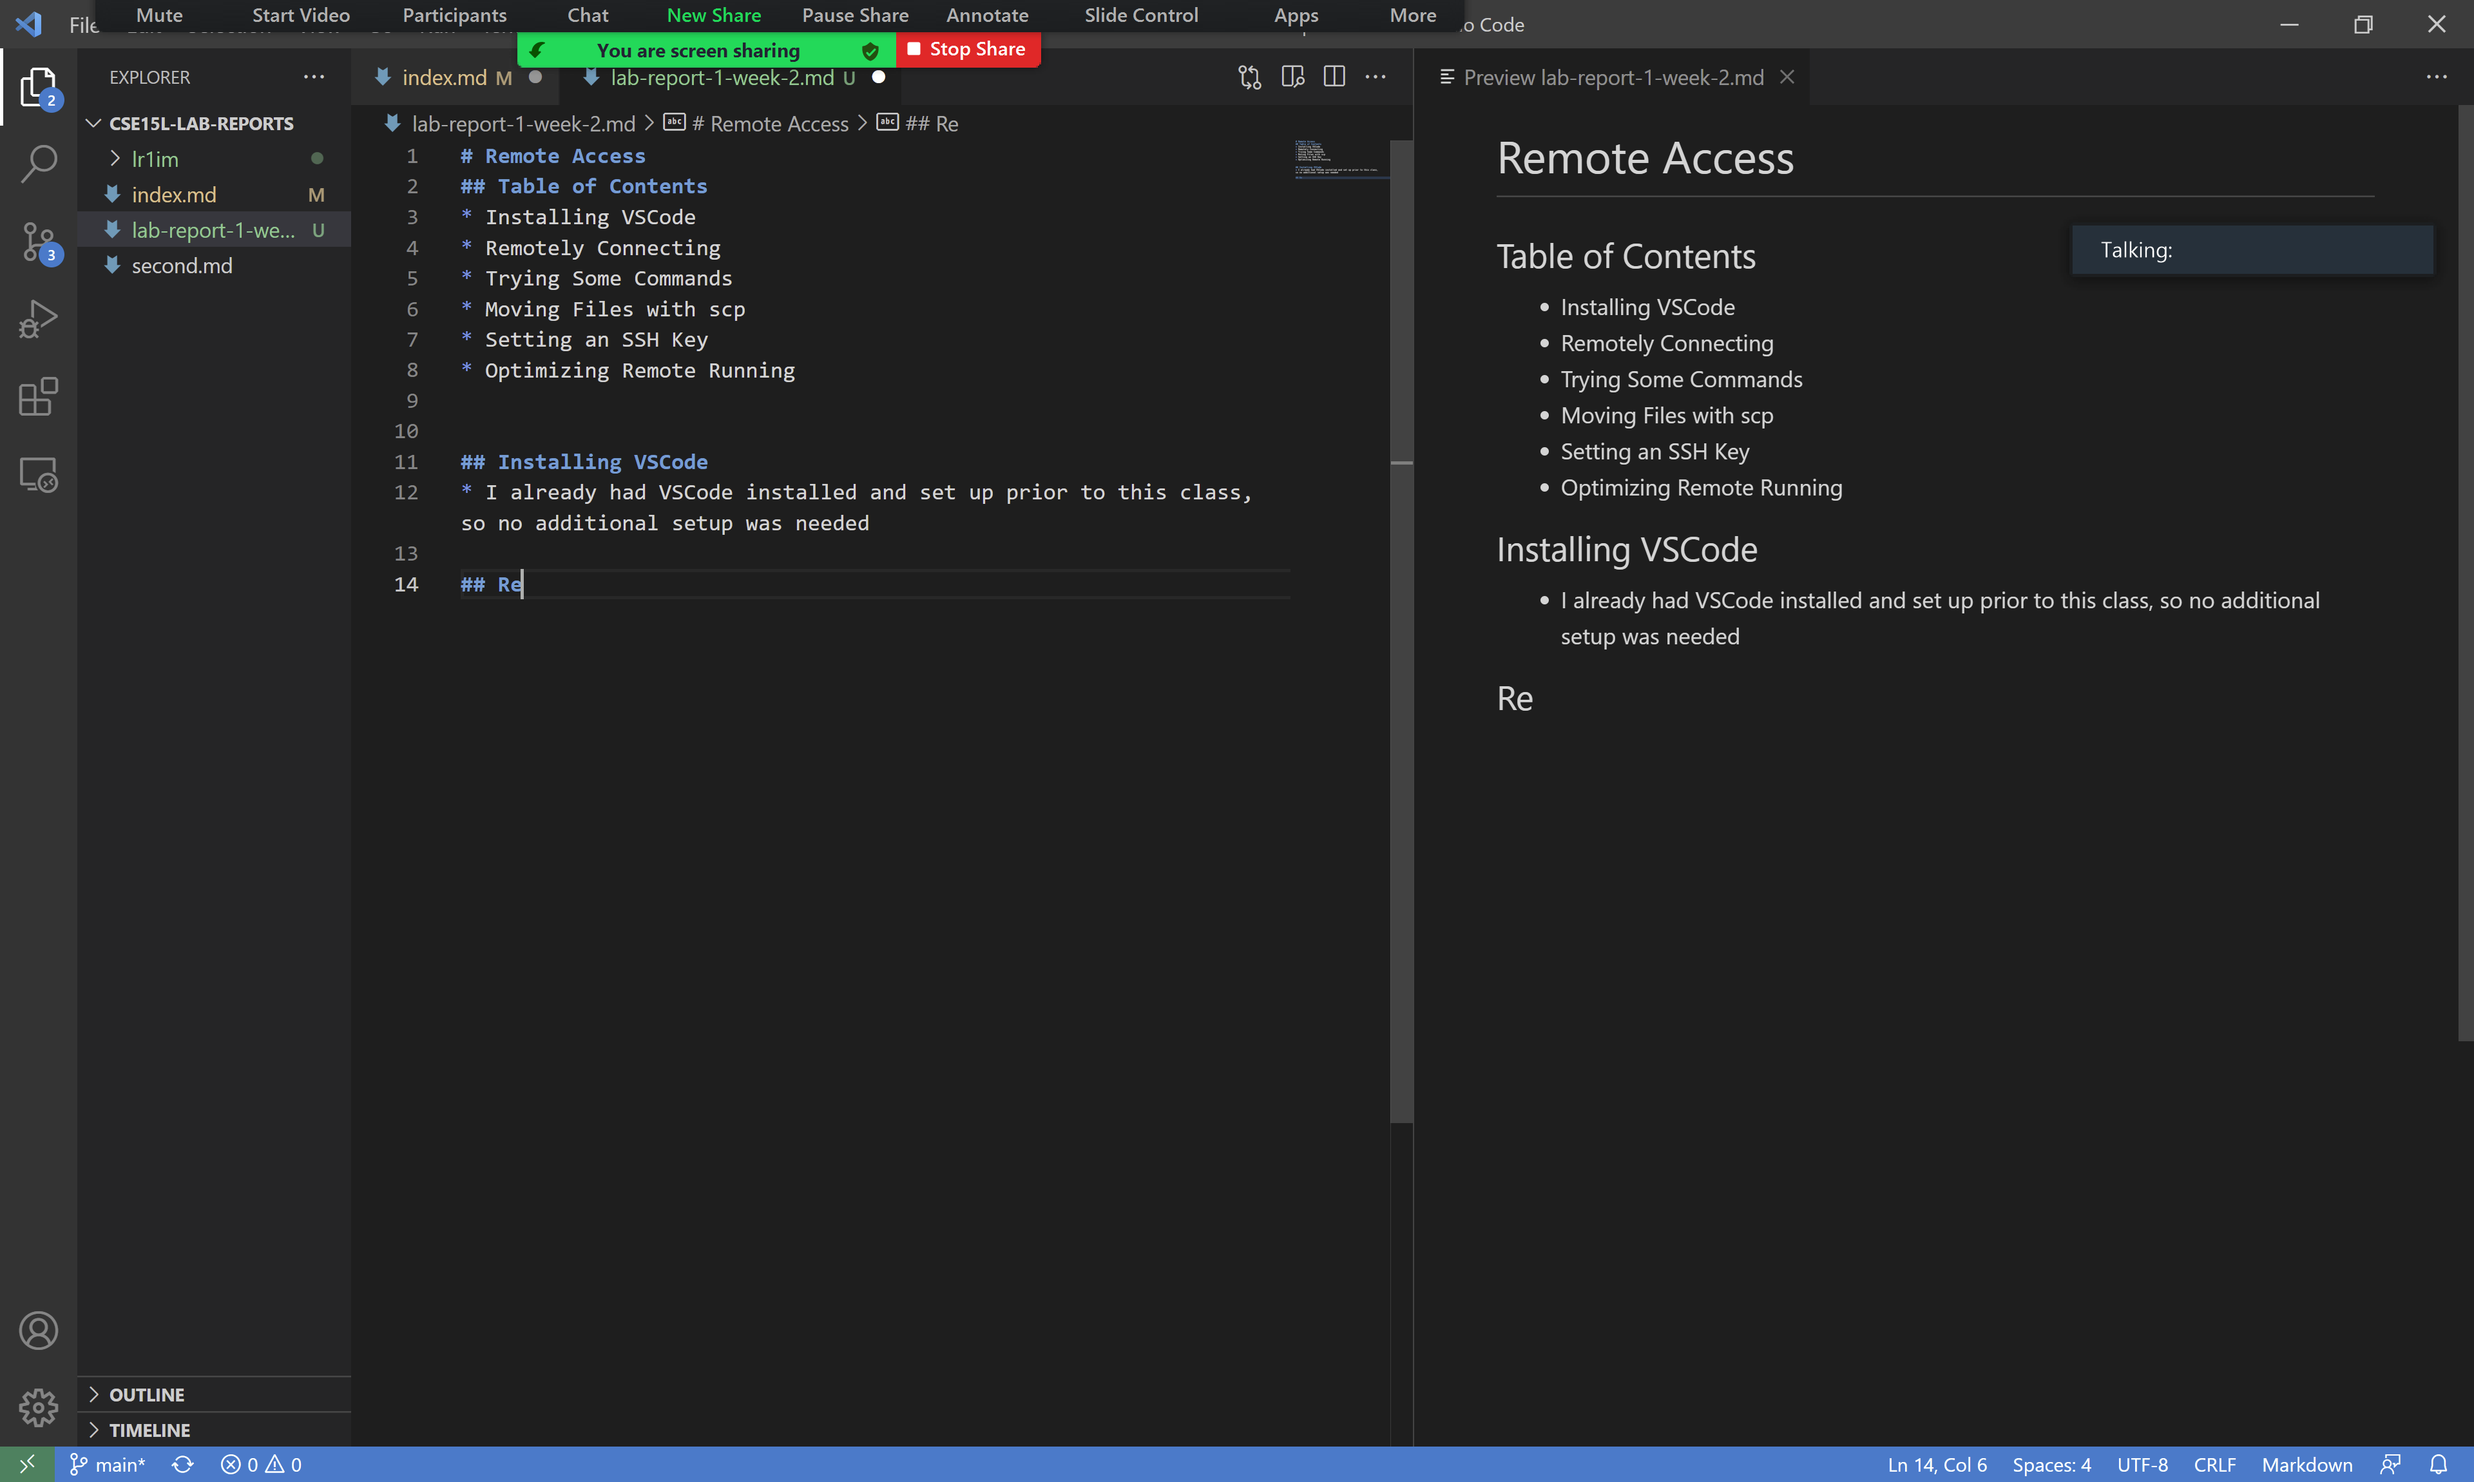
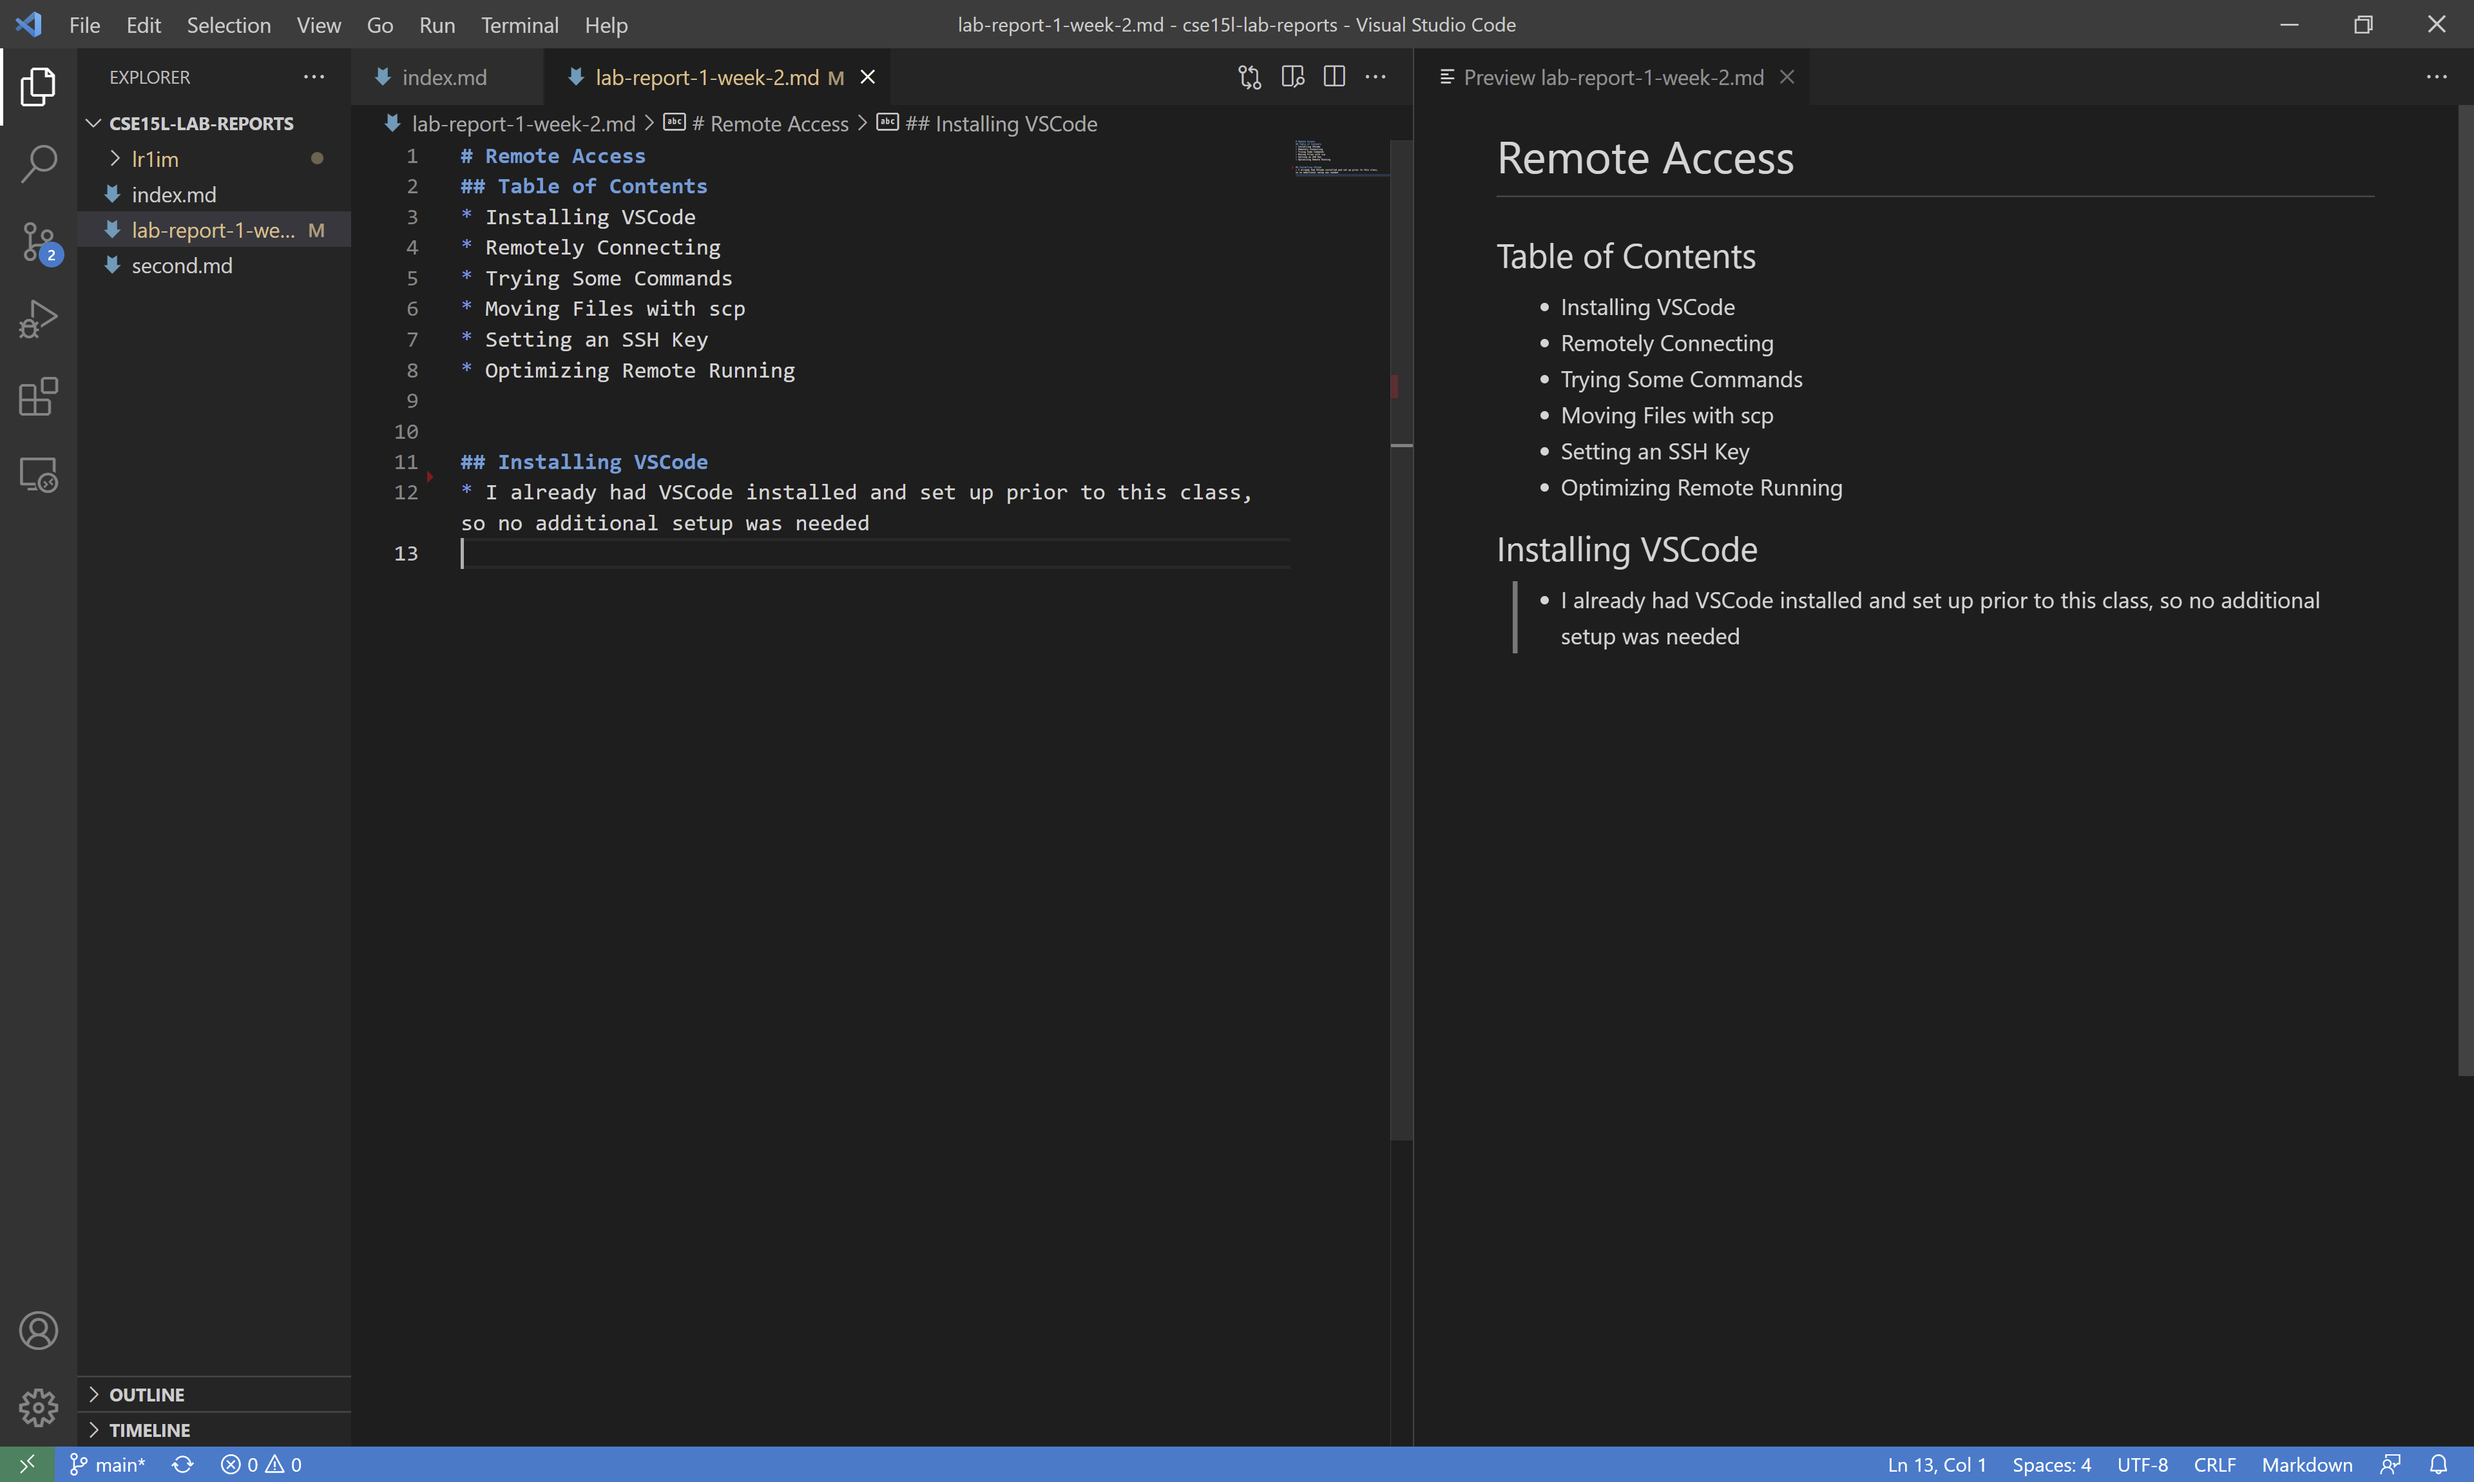
completed lab report 1

diff --git a/lab-report-1-week-2.md b/lab-report-1-week-2.md
@@ -3,7 +3,7 @@
 * Installing VSCode
 * Remotely Connecting
 * Trying Some Commands
-* Moving Files with scp
+* Moving Files with `scp`
 * Setting an SSH Key
 * Optimizing Remote Running
 
@@ -11,3 +11,60 @@
 ## Installing VSCode
 ![Image](lr1im/ss2.png)
 * I already had VSCode installed and set up prior to this class, so no additional setup was needed
+
+## Remotely Connecting
+* By using `ssh`, we can remotely connect to another computer (the server)
+* Since I'm on Windows, I started by [installing OpenSSH](https://docs.microsoft.com/en-us/windows-server/administration/openssh/openssh_install_firstuse)
+* To connect to a UCSD computer, I used the following command in my VSCode Terminal: \
+        ```
+        $ ssh cs15lwi22acy@ieng6.ucsd.edu
+        ```
+* This is what I see upon connecting with `ssh`:
+![Image](lr1im/ss3.png)
+* I use Ctrl+d to disconnect from the remote computer
+
+## Trying Some Commands
+* We also tried several commands on both local and remote computers
+* `cd`:
+    ![Image](lr1im/ss5.png)
+    * `cd ~`: return to home directory
+    * `cd ..`: go back one directory on the current path
+    * `cd <directory name>`: go to specified directory
+* `ls`: lists files and directories in current directory
+    ![Image](lr1im/ss4.png)
+    * `ls -l`: lists in longer format with additional information
+    * `ls -a`: lists all files and directories, including hidden ones
+    * `ls <directory>`: lists files and directories in specified directories
+        * permissions restrict access to other people's directories
+* `cp <source file> <destination file>`: copies the source file into the destination file (overwrites or creates a new file)
+    * `cp <file 1> <file 2> <file 3> <directory>`: copies all files into the specified directory with the same name (will overwrite existing files)
+* `cat <file>`: prints the contents of the specified file
+    ![Image](lr1im/ss6.png)
+    * works with multiple files and will print them in order
+## Moving Files with `scp`
+![Image](lr1im/ss7.png)
+* `scp <file> <server>`: copies files and directories from the client to the remote computer
+* Also included in this screenshot is the result of running WhereAmI.java on the server, which printed information about the server rather than the client
+
+## Setting an SSH Key
+* SSH keys help us connect to the remote computer more efficiently, as it removes the need to type a password each time
+* Steps to set up an SSH key:
+    * `ssh-keygen`: generates a private and public key
+    * As I'm on Windows, I also needed to follow some [additional steps](https://docs.microsoft.com/en-us/windows-server/administration/openssh/openssh_keymanagement#user-key-generation)
+    * Connect to the server (`ssh`)
+    * `mkdir .ssh`: creates a directory named `.ssh`
+    * Disconnect from the server
+    * `scp <location of public key> <server>:~/.ssh/authorized_keys`: copies public key to the server
+    * Now we don't need a password to connect to the server!
+    \
+    \
+    ![Image](lr1im/ss8.png)
+
+
+## Optimizing Remote Running
+* To make running commands on the server more efficient, we can use:
+    * `ssh <server> <command>`: connects to the server, runs the command, then disconnects
+    ![Image](lr1im/ss9.png)
+    * Note: `ssh <server> <command>; <command>` will run the first command on the server and the second on the client. To run multiple on the server, contain the commands in quotes: \
+    `ssh <server> '<command>; <command>'`
+    ![Image](lr1im/ss10.png)
